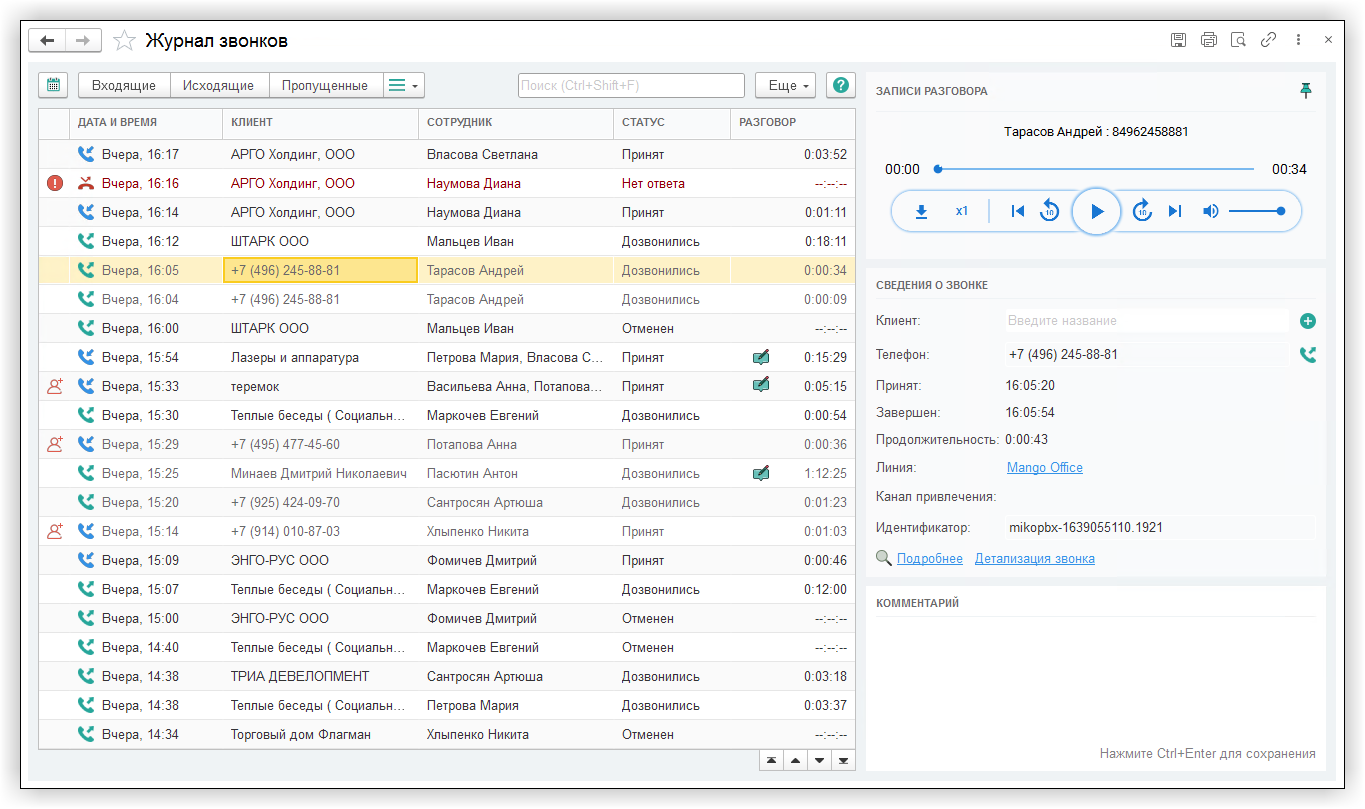
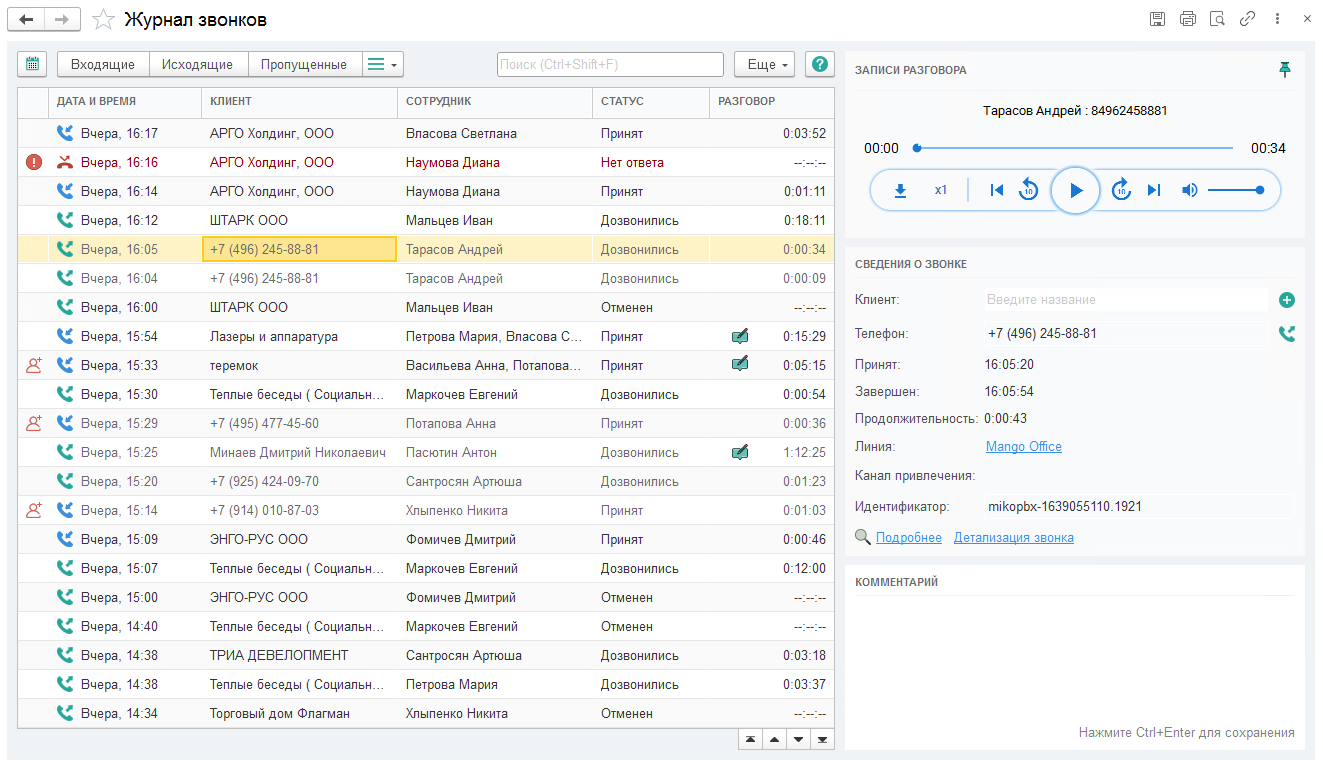
Закончил статью про журнал

Changed region(s): [[0.0, 0.0, 0.9917, 0.9896]]

diff --git a/src/user-guides/journal/calls-and-records.md b/src/user-guides/journal/calls-and-records.md
@@ -11,7 +11,7 @@ order: -1
 Журнал звонков собирает все звонки компании, связывает их с клиентами и сотрудниками, отображает статусы
 звонков и их длительность.
 
-[![](~/assets/journal/overall-preview.png)](~/assets/journal/overall.png)
+[<img src="/assets/journal/overall-preview.png" style="box-shadow: 0 0 20px 0 grey">](~/assets/journal/overall.png)
 
 Каждая строка журнала содержит информацию о звонке:
 - **дату и время**
@@ -50,7 +50,56 @@ order: -1
 - **Показывать внутренние звонки** - показывает или скрывает звонки внутри компании.
 - **Мои звонки** - показывает только звонки, в которых текущий сотрудник принимал участие
 
-![](~/assets/journal/search.png)
+<figure class="content-center">
+  <img  src="/assets/journal/search.png" style="box-shadow: 0 0 20px 0 grey">
+</figure>
 
 Строка поиск позволяет находить звонки по имени клиента или номеру телефону. Для отбора звонков по сотруднику
 достаточно ввести его имя в строку поиска.
+
+### Записи разговора
+
+Боковая панель журнала звонков содержит блок с плеером для прослушивания записей разговора.
+
+<figure class="content-center">
+  <img  src="/assets/journal/records.png" style="box-shadow: 0 0 20px 0 grey">
+</figure>
+
+Функции плеера позволяют перематывать записи разговора вперед и назад на 10 секунд
+(![](~/assets/journal/replay-10.png) и ![](~/assets/journal/forward-10.png)), переключатся между частями
+разговора (![](~/assets/journal/skip-previous.png) и ![](~/assets/journal/skip-next.png)),
+изменять скорость воспроизведения и скачивать запись на диск (![](~/assets/journal/download.png)).
+
+### Регистрация клиента
+
+Журнал звонков позволяет зарегистрировать новый номер телефона в информационной базе, создав нового клиента или
+присвоив его уже существующему.
+
+#### Создание нового клиента
+
+<figure class="content-center">
+  <img  src="/assets/journal/customer-creation.png" style="box-shadow: 0 0 20px 0 grey">
+</figure>
+
+Для создания нового клиента в блоке `Сведения о звонке` нажмите кнопку `Создать клиента (F7)`.
+
+!!!info Создание клиента
+Поведение программы
+будет зависеть от конфигурации 1С и установленного в персональных настройках значения параметра
+**Способ регистрации нового клиента**. Во всех конфигурациях доступна регистрация клиента с помошью
+[!badge карточки клиента](~/user-guides/panel/customer-creation).
+!!!
+
+#### Присвоение номера существующему клиенту
+
+<video autoplay loop style="box-shadow: 0px 0px 20px 0px grey">
+ <source src="/assets/journal/phone-assign-748.mp4">
+</video>
+
+<br>
+
+Чтобы сохранить номер за уже существующим клиентом или контактным лицом:
+1. Установите курсор в поле с надписью `Введите название` и начните набирать **имя клиента**.
+2. Выберите из выпадающего списка найденного клиента.
+3. Выберите `добавить номер клиенту` или `добавить номер контактому лицу`. Если номер добавляется контактному лицу,
+   то в появившемся окне выберите контактное лицо клиента. 
